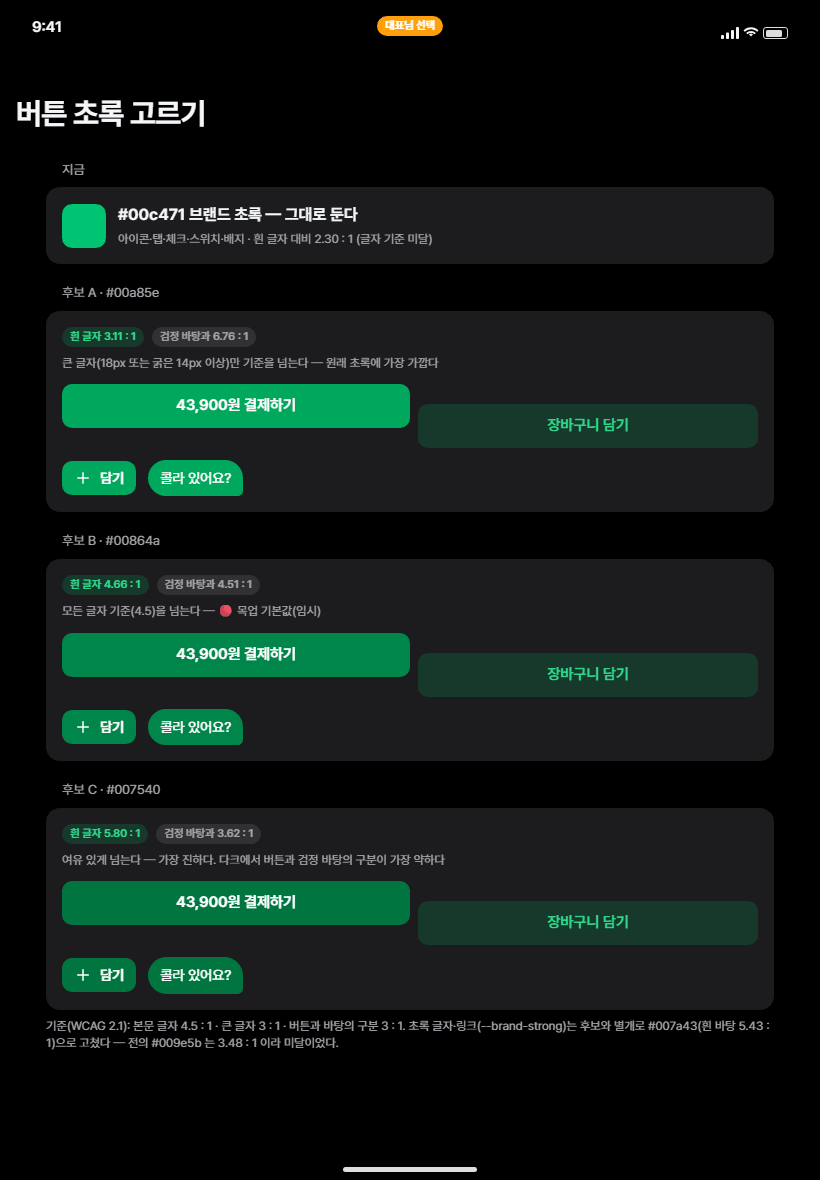
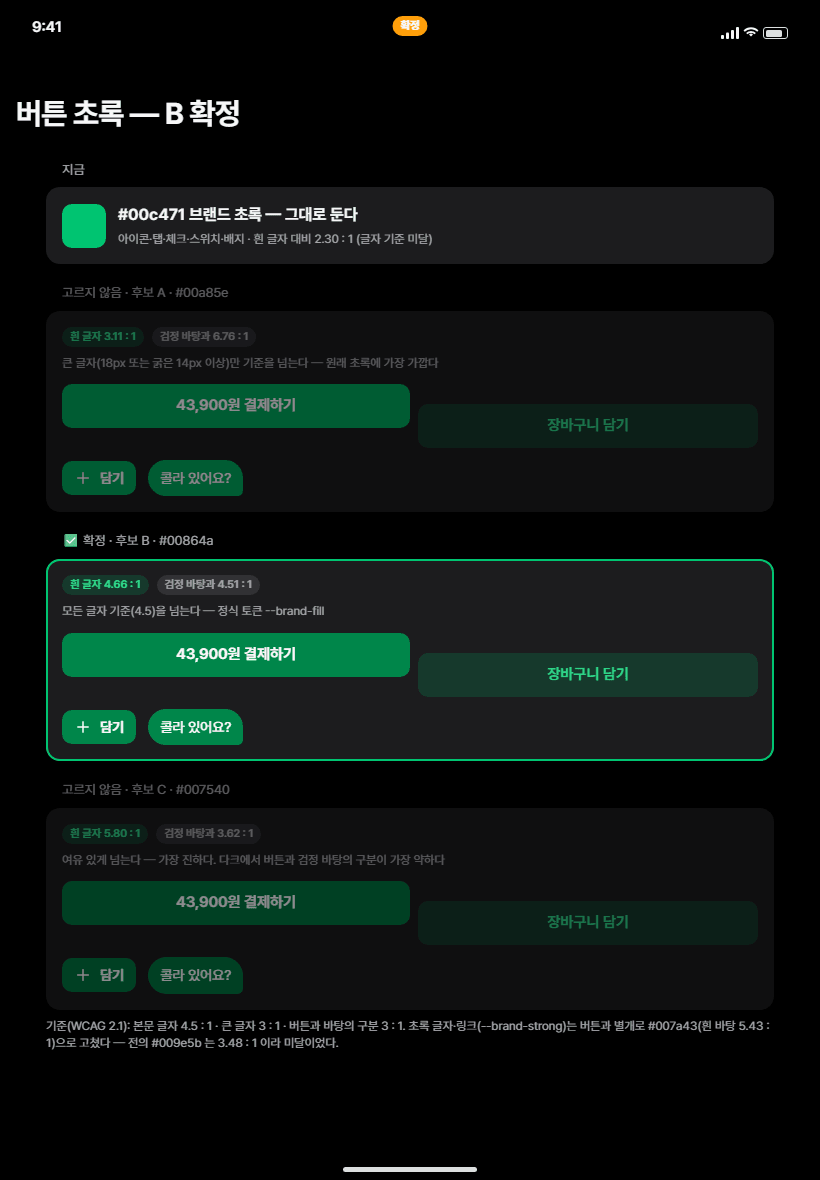
docs(shop): 버튼 초록 B(#00864a) 확정 — 토큰 문서·진행표 D01·목업 사진
- SHOP_DESIGN_TOKENS: --brand-fill #00864a 정식 토큰(2026-11-11 대표님 확정), #00c471 은 강조 전용
- SHOP_PROGRESS: D01 「확정」
- build-sheets: 결정 화면 문구를 「확정」으로
- 목업 사진 D01·S01 다시 찍음(D01 이 확정 화면으로 바뀜)

diff --git a/docs/SHOP_DESIGN_TOKENS.md b/docs/SHOP_DESIGN_TOKENS.md
@@ -33,7 +33,7 @@
 | `--sep-strong` | `rgba(60,60,67,.30)` | `rgba(84,84,88,.9)` | 테두리·점선 |
 | `--brand` | `#00c471` | `#00c471` | **브랜드 초록(고정)** — 아이콘·탭·체크·스위치·배지 등 **강조만**. 🔴 흰 글자를 올리지 않는다 |
 | `--brand-strong` | `#007a43` | `#30d98b` | 초록 **글자**·링크 — 밝게 흰 바탕 대비 **5.43 : 1**(2026-11-11 `#009e5b` 3.48 : 1 → 고침) |
-| `--brand-fill` | 후보 B `#00864a`(임시) | 같음 | **흰 글자가 올라가는 버튼**(결제·담기·말풍선·배너) — 대표님이 A/B/C 중 고른다(목업 D01) |
+| `--brand-fill` | `#00864a` | `#00864a` | **흰 글자가 올라가는 버튼**(결제·담기·말풍선·배너) — **2026-11-11 대표님 확정(B)**, 흰 글자 4.66 : 1 |
 | `--brand-fill-pressed` | `#00703d` | 같음 | 위 버튼 눌림·배너 그라데이션 끝 |
 | `--on-brand-fill` | `#ffffff` | `#ffffff` | 위 버튼 글자 |
 | `--brand-soft` | `#e5f8ef` | `rgba(0,196,113,.18)` | 초록 옅은 바탕(보조 버튼·알림 띠) |
@@ -51,12 +51,13 @@
 
 🔴 **`#00c471` 위 흰 글자는 대비 2.30 : 1** (본문 기준 4.5 : 1 · 큰 글자 3 : 1 둘 다 미달).
 그래서(대표님 결정 8, 2026-11-11) `#00c471` 은 강조에만 두고, 흰 글자 버튼은 `--brand-fill` 을 쓴다.
-아이콘 공식 사양 `#00c471` 은 그대로다. 후보(목업 D01 · 맨 위 「버튼 A/B/C」로 목업 전체를 바꿔 볼 수 있다):
+아이콘 공식 사양 `#00c471` 은 그대로다(아이콘·탭·체크·스위치·배지 **강조 전용**).
+**2026-11-11 대표님이 B(`#00864a`)로 확정했다.** 비교했던 후보는 기록으로 남긴다(목업 D01):
 
 | 후보 | 색 | 흰 글자 대비 | 검정(`#000`) 바탕과 | `#1c1c1e` 카드와 | 판정 |
 |---|---|---|---|---|---|
 | A | `#00a85e` | 3.11 : 1 | 6.76 : 1 | 5.48 : 1 | 큰 글자만 통과 — 원래 초록에 가장 가깝다 |
-| B | `#00864a` | 4.66 : 1 | 4.51 : 1 | 3.65 : 1 | 모든 글자 통과 · **목업 임시 기본값** |
+| B | `#00864a` | 4.66 : 1 | 4.51 : 1 | 3.65 : 1 | 모든 글자 통과 · ✅ **확정 — 정식 토큰** |
 | C | `#007540` | 5.80 : 1 | 3.62 : 1 | 2.93 : 1 | 여유 있게 통과 — 다크 카드 위에서 버튼 테두리가 가장 약하다 |
 
 (WCAG 2.1 상대 휘도로 계산. 기준: 본문 4.5 · 큰 글자 3 · 버튼과 바탕 구분 3.)

diff --git a/docs/SHOP_PROGRESS.md b/docs/SHOP_PROGRESS.md
@@ -1,6 +1,6 @@
 # 쇼핑앱 디자인 재정비 진행표
 
-> 화면ID는 `docs/SHOP_SCREENS.md` 와 같다(S01~S43) + 목업의 「제안」(P01~P05) + 대표님이 고르실 「결정」(D01).
+> 화면ID는 `docs/SHOP_SCREENS.md` 와 같다(S01~S43) + 목업의 「제안」(P01~P05) + 대표님 「결정」 기록(D01 — 버튼 초록 B 확정).
 > **2차(2026-11-11) 대표님 결정 2~8 을 목업에 반영했다** — 제안 P01~P05 는 채택 방향(최종 확정은 시트를 보신 뒤).
 > **1단계(2026-11-11)는 「목업 반영」 칸만 채웠다.** 목업은 대표님 승인 전까지 정본이 아니다 —
 > 승인 전에는 앱 코드(src)를 고치지 않는다.
@@ -81,4 +81,4 @@
 | P03 | 제안 — 주문서 한 장 (S08·S10·S11·S12) | ✅ 「제안」 · 채택 방향(최종 확정 전) | | | | 제안 |
 | P04 | 제안 — 회원가입 3단계 (S28) | ✅ 「제안」 · 채택 방향(최종 확정 전) | | | | 제안 |
 | P05 | 제안 — 홈 위쪽·탭바 정리 (S01·S06·S19·S33·S37 · 5칸 탭바) | ✅ 「제안」 · 채택 방향(최종 확정 전) | | | | 제안 |
-| D01 | 결정 — 버튼 초록 후보 A·B·C (흰 글자 대비) | ✅ 대표님 선택 대기 | | | | 결정 |
+| D01 | 결정 — 버튼 초록 B(#00864a) 확정 (A·C 비교 기록) | ✅ 확정(2026-11-11) | | | | 결정 |
